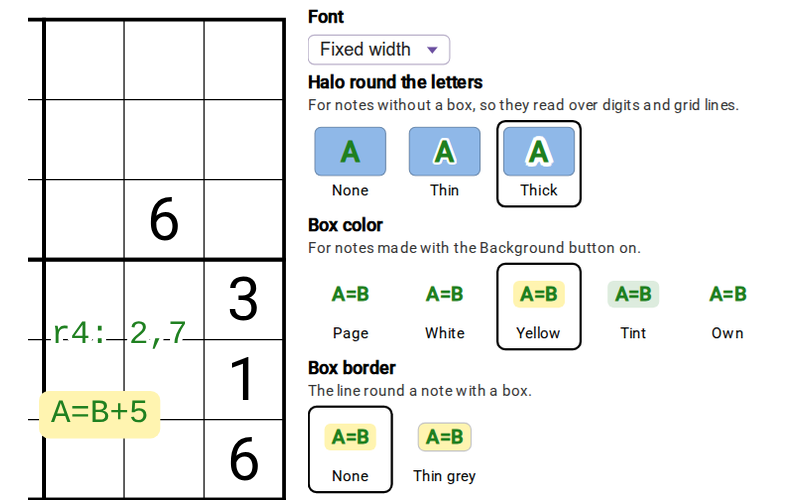
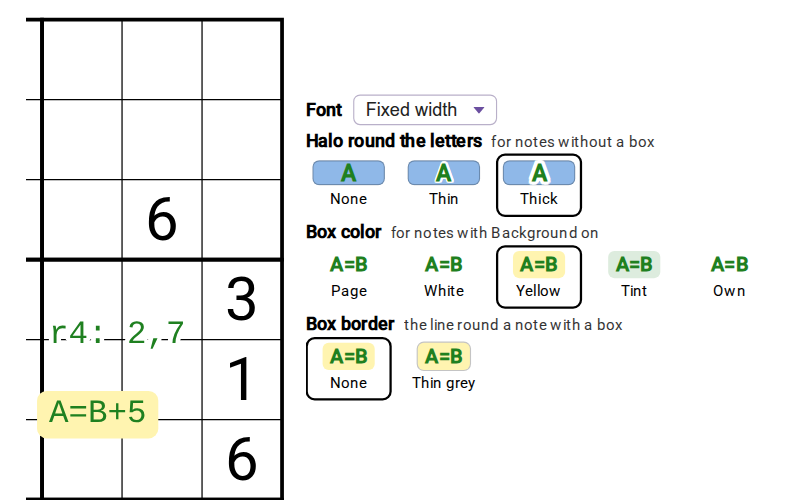
Text Anywhere: dialog fits 1280x720, Delete all N notes confirm, live selection outline
Closes #961

diff --git a/text-anywhere.user.js b/text-anywhere.user.js
@@ -1,7 +1,7 @@
 // ==UserScript==
 // @name         SudokuPad Text Anywhere
 // @namespace    https://github.com/caneff/sudokupad-scripts
-// @version      0.46.27
+// @version      0.46.28
 // @author       ChinStrap
 // @description  Adds a Text Anywhere tool for typed notes on the board or beside it, such as cage sums, in colors of its own. Each puzzle keeps its own notes.
 // @match        https://sudokupad.app/*
@@ -17,7 +17,7 @@
 (function () {
   'use strict'
 
-  const VERSION = '0.46.27'
+  const VERSION = '0.46.28'
   const TOOL_NAME = 'textanywhere'
   const LAYER_ID = 'text-anywhere-layer'
   const DIALOG_BLUR_PX = 8
@@ -253,7 +253,8 @@
   const CLASS_PREFIX = 'text-anywhere-'
   const COLORS_STYLE_ID = 'text-anywhere-colors'
   const PANEL_STYLE_ID = 'text-anywhere-style'
-  const CLEAR_QUESTION = 'Clear all notes?'
+  const DELETE_ALL_LABEL = 'Delete all'
+  const clearQuestion = (count) => `${count === 1 ? 'Delete the note' : `Delete all ${count} notes`}? This cannot be undone.`
   const OK_LABEL = 'OK'
   const NOTES_PREFIX = KEY_PREFIX + 'notes_'
   const OLD_NOTES_PREFIX = OLD_KEY_PREFIX + 'drawing_'
@@ -643,16 +644,16 @@
   function renderSamplePicks ({ outline, box, custom, frame, textColor }) {
     const pickButton = (role, value, label, pressed, sample) =>
       `<button type="button" class="${CLASS_PREFIX}pick" data-role="${role}" data-value="${value}" aria-label="${escapeHtml(label)}" aria-pressed="${pressed}">${sample}<span class="${CLASS_PREFIX}pick-label">${escapeHtml(label)}</span></button>`
-    const row = (title, note, buttons, after = '') => `<div class="${CLASS_PREFIX}section-title">${title}</div><div class="${CLASS_PREFIX}pick-note">${note}</div><div class="${CLASS_PREFIX}pick-row">${buttons.join('')}</div>${after}`
-    const halo = (name) => `<span class="${CLASS_PREFIX}sample" data-cell style="background:${HALO_CELL_COLOR};color:${escapeHtml(textColor)};font-size:26px;text-shadow:${escapeHtml(haloShadow(name, PAGE_COLOR))}">A</span>`
+    const row = (title, note, buttons, after = '') => `<div class="${CLASS_PREFIX}section-title">${title}<span class="${CLASS_PREFIX}pick-note">${note}</span></div><div class="${CLASS_PREFIX}pick-row">${buttons.join('')}</div>${after}`
+    const halo = (name) => `<span class="${CLASS_PREFIX}sample" data-cell style="background:${HALO_CELL_COLOR};color:${escapeHtml(textColor)};font-size:20px;text-shadow:${escapeHtml(haloShadow(name, PAGE_COLOR))}">A</span>`
     const boxed = (fill, framed) => `<span class="${CLASS_PREFIX}sample" style="color:${escapeHtml(textColor)};font-size:18px"><span style="${SAMPLE_BOX_STYLE};background:${escapeHtml(fill)};box-shadow:${frameShadow(framed)}">A=B</span></span>`
     const choice = boxChoice(box)
     const fillFor = (id) => id === BOX_CUSTOM ? custom : boxFill(id, textColor)
-    return row('Halo round the letters', 'For notes without a box, so they read over digits and grid lines.', OUTLINES.map((name) => pickButton('outline-pick', name, OUTLINE_LABELS[name], outline === name, halo(name)))) +
-      row('Box color', 'For notes made with the Background button on.',
+    return row('Halo round the letters', 'for notes without a box', OUTLINES.map((name) => pickButton('outline-pick', name, OUTLINE_LABELS[name], outline === name, halo(name)))) +
+      row('Box color', 'for notes with Background on',
         [...Object.keys(BOX_PRESETS), BOX_CUSTOM].map((id) => pickButton('box-pick', id, BOX_PRESETS[id] ?? BOX_CUSTOM_LABEL, choice === id, boxed(fillFor(id), frame))),
         choice === BOX_CUSTOM ? `<input type="color" class="${CLASS_PREFIX}swatch" data-role="box-custom" value="${escapeHtml(custom)}" aria-label="Own box color" title="Own box color">` : '') +
-      row('Box border', 'The line round a note with a box.',
+      row('Box border', 'the line round a note with a box',
         FRAME_CHOICES.map(([value, label]) => pickButton('frame-pick', value, label, frame === (value === 'on'), boxed(fillFor(choice), value === 'on'))))
   }
   // Board units, as a text's height.
@@ -2626,12 +2627,14 @@
   const DIALOG_ID = 'text-anywhere-dialog'
   const DIALOG_STYLE_ID = 'text-anywhere-dialog-style'
   const DIALOG_CSS = [
-    `#${DIALOG_ID} .${CLASS_PREFIX}section-title { font-weight: 600; margin: 6px 0 0; }`,
-    `#${DIALOG_ID} .${CLASS_PREFIX}pick-note { margin: 2px 0 0; font-size: 0.85em; opacity: 0.8; }`,
-    `#${DIALOG_ID} .${CLASS_PREFIX}pick-row { display: flex; flex-wrap: wrap; gap: 8px; margin: 6px 0; }`,
+    `#${DIALOG_ID} .${CLASS_PREFIX}section-title { font-weight: 600; margin: 4px 0 0; }`,
+    `#${DIALOG_ID} .${CLASS_PREFIX}pick-note { display: inline; margin: 0 0 0 8px; font-weight: 400; font-size: 0.85em; opacity: 0.8; }`,
+    `#${DIALOG_ID} .${CLASS_PREFIX}font-row { display: flex; align-items: center; gap: 10px; margin: 6px 0 0; }`,
+    `#${DIALOG_ID} .${CLASS_PREFIX}font-row .${CLASS_PREFIX}section-title { margin: 0; }`,
+    `#${DIALOG_ID} .${CLASS_PREFIX}pick-row { display: flex; flex-wrap: wrap; gap: 8px; margin: 2px 0; }`,
     `#${DIALOG_ID} .${CLASS_PREFIX}pick { box-sizing: border-box; display: flex; flex-direction: column; align-items: center; gap: 4px; width: auto; height: auto; min-width: 0; margin: 0; padding: 4px 4px 6px; line-height: 1.2; border: 2px solid transparent; border-radius: 8px; background: none; color: inherit; font: inherit; cursor: pointer; }`,
     `#${DIALOG_ID} .${CLASS_PREFIX}pick[aria-pressed="true"] { border-color: #000; }`,
-    `#${DIALOG_ID} .${CLASS_PREFIX}sample { box-sizing: border-box; display: flex; align-items: center; justify-content: center; width: 64px; height: 44px; border-radius: 6px; font-weight: 600; line-height: 1; }`,
+    `#${DIALOG_ID} .${CLASS_PREFIX}sample { box-sizing: border-box; display: flex; align-items: center; justify-content: center; width: 64px; height: 22px; border-radius: 6px; font-weight: 600; line-height: 1; }`,
     `#${DIALOG_ID} .${CLASS_PREFIX}sample[data-cell] { border: 1px solid rgb(0 0 0 / .25); }`,
     `#${DIALOG_ID} .${CLASS_PREFIX}pick-label { font-size: 0.85em; }`,
     `#${DIALOG_ID} input.${CLASS_PREFIX}swatch[data-role="box-custom"] { display: block; margin: 0 0 6px; }`,
@@ -2639,7 +2642,8 @@
     // The pulldowns are as wide as their longest option, not as the dialog's column (after colorBlockCss, whose rule they override).
     `#${DIALOG_ID} .${CLASS_PREFIX}color-choice { width: auto; min-width: 0; }`,
     // The block is as wide as its pulldown, so the swatch grid, which takes the block's width, ends where the pulldown does.
-    `#${DIALOG_ID} .${CLASS_PREFIX}color-block { justify-content: start; }`
+    `#${DIALOG_ID} .${CLASS_PREFIX}color-block { justify-content: start; gap: 4px; margin: 4px 0; }`,
+    `#${DIALOG_ID} .${CLASS_PREFIX}font-row .${CLASS_PREFIX}color-block { margin: 0; }`
   ].join('\n')
 
   // A pasted value is saved and shown at once, whether or not Text Anywhere is current.
@@ -2714,7 +2718,7 @@
         renderColorBlock({ prefix: CLASS_PREFIX, label: 'Text color preset', options, swatches: COLOR_NUMBERS.map((n) => ({ key: String(n), value: draft.colors[n], label: `Text color ${n}` })) }) +
         (paletteNote ? `<div data-role="palette-note">${paletteNote}.</div>` : '') +
         (draft.missing.length ? `<div data-role="missing-note">${missingColorsText(draft.missing, draft.fromPreset)}</div>` : '') +
-        `<div class="${CLASS_PREFIX}section-title">Font</div>${renderFontChoice(draftLooks.noteFont)}` +
+        `<div class="${CLASS_PREFIX}font-row"><span class="${CLASS_PREFIX}section-title">Font</span>${renderFontChoice(draftLooks.noteFont)}</div>` +
         renderSamplePicks({ outline: draftLooks.outline, box: draftLooks.boxColor, custom: draftCustom, frame: draftLooks.frame, textColor: draft.colors[color] })
     }
     draw()
@@ -2891,6 +2895,8 @@
   let puzzleNotes = []
   let keptEntries = []
   let selected = []
+  // The notes a selection rectangle being dragged touches, outlined as the selection is until the release decides.
+  let previewed = []
   // False while this puzzle's saved notes cannot be read: no save writes over them but an explicit wipe's.
   let savable = true
   const reported = new Set()
@@ -3095,7 +3101,7 @@
   }
 
   function showSelection (map, offset = [0, 0]) {
-    const outlines = textBox ? [{ box: textBox.box, color: itemColor(textBox.item.color) }] : selected.map((index) => ({ box: noteScreenBox(puzzleNotes[index], map, look.outline) }))
+    const outlines = textBox ? [{ box: textBox.box, color: itemColor(textBox.item.color) }] : [...new Set([...selected, ...previewed])].map((index) => ({ box: noteScreenBox(puzzleNotes[index], map, look.outline) }))
     const layer = notesLayer()
     const shown = [...layer.querySelectorAll(`.${SELECTION_CLASS}`)]
     for (const element of shown.slice(outlines.length)) element.remove()
@@ -3704,6 +3710,10 @@
     clearTimeout(d.settle)
     between()
     d.rectangle?.remove()
+    if (previewed.length) {
+      previewed = []
+      showSelection(boardMap())
+    }
   }
 
   function endDrag (click = () => {}) {
@@ -3755,6 +3765,8 @@
     return { left: Math.min(ax, bx), top: Math.min(ay, by), width: Math.abs(bx - ax), height: Math.abs(by - ay) }
   }
 
+  const notesInRectangle = (d, map) => notesHidden ? [] : notesTouched(notesOnBoard(map), map.toBoard(d.points[0]), map.toBoard(d.points[d.points.length - 1]))
+
   function showRectangle (d) {
     if (!d.rectangle) {
       d.rectangle = document.createElement('div')
@@ -3763,11 +3775,14 @@
     }
     const box = rectangleBox(d)
     placeOver(d.rectangle, { left: box.left, top: box.top, right: box.left + box.width, bottom: box.top + box.height })
+    const map = boardMap()
+    previewed = notesInRectangle(d, map)
+    showSelection(map)
   }
 
   function selectInRectangle (d, click) {
     const map = boardMap()
-    const touched = notesHidden ? [] : notesTouched(notesOnBoard(map), map.toBoard(d.points[0]), map.toBoard(d.points[d.points.length - 1]))
+    const touched = notesInRectangle(d, map)
     if (touched.length === 0 && isSmallRectangle(d.points)) return click(d)
     select(d.shift ? [...selected, ...touched] : touched)
   }
@@ -4120,10 +4135,10 @@
   function confirmClear () {
     textTool.run(() => Framework.showDialog({
       parts: [
-        { tag: 'text', content: CLEAR_QUESTION },
-        { tag: 'options', options: [{ tag: 'button', content: OK_LABEL }, { tag: 'button', content: CANCEL_LABEL }] }
+        { tag: 'text', content: clearQuestion(puzzleNotes.filter((item) => item.kind === TEXT_KIND).length) },
+        { tag: 'options', options: [{ tag: 'button', content: DELETE_ALL_LABEL }, { tag: 'button', content: CANCEL_LABEL }] }
       ],
-      onButton: under(textTool, (label) => { if (label === OK_LABEL) clearAll() }),
+      onButton: under(textTool, (label) => { if (label === DELETE_ALL_LABEL) clearAll() }),
       centerOverBoard: true
     }))
   }

diff --git a/site/index.html b/site/index.html
@@ -116,7 +116,7 @@
           <source media="(prefers-reduced-motion: no-preference)" srcset="https://raw.githubusercontent.com/caneff/sudokupad-scripts/main/docs/research/text-anywhere/text-anywhere-slide-8-erase.webp?v=e592707">
           <img class="slide" src="https://raw.githubusercontent.com/caneff/sudokupad-scripts/main/docs/research/text-anywhere/text-anywhere-slide-8-erase.png?v=88076f3" alt="A red ring on a green note above the grid reading A=B+5, where a right click lands, then the board with the note gone" width="800" height="500">
         </picture>
-        <img class="slide" src="https://raw.githubusercontent.com/caneff/sudokupad-scripts/main/docs/research/text-anywhere/text-anywhere-slide-9-settings.png?v=0c78a0f" alt="Two green notes on the board in a fixed-width font, r4: 2,7 with a thick white halo over a grid line and A=B+5 in a yellow box, beside the settings dialog's Font, Halo, Box color and Box border rows with Fixed width, Thick and Yellow picked" width="800" height="500">
+        <img class="slide" src="https://raw.githubusercontent.com/caneff/sudokupad-scripts/main/docs/research/text-anywhere/text-anywhere-slide-9-settings.png?v=4d30098" alt="Two green notes on the board in a fixed-width font, r4: 2,7 with a thick white halo over a grid line and A=B+5 in a yellow box, beside the settings dialog's Font, Halo, Box color and Box border rows with Fixed width, Thick and Yellow picked" width="800" height="500">
       </div>
       <div class="slide-bar">
         <div class="slide-captions">

diff --git a/site/text-anywhere.html b/site/text-anywhere.html
@@ -36,7 +36,7 @@
         <source media="(prefers-reduced-motion: no-preference)" srcset="https://raw.githubusercontent.com/caneff/sudokupad-scripts/main/docs/research/text-anywhere/text-anywhere-slide-8-erase.webp?v=e592707">
         <img class="slide" src="https://raw.githubusercontent.com/caneff/sudokupad-scripts/main/docs/research/text-anywhere/text-anywhere-slide-8-erase.png?v=88076f3" alt="A red ring on a green note above the grid reading A=B+5, where a right click lands, then the board with the note gone" width="800" height="500">
       </picture>
-      <img class="slide" src="https://raw.githubusercontent.com/caneff/sudokupad-scripts/main/docs/research/text-anywhere/text-anywhere-slide-9-settings.png?v=0c78a0f" alt="Two green notes on the board in a fixed-width font, r4: 2,7 with a thick white halo over a grid line and A=B+5 in a yellow box, beside the settings dialog's Font, Halo, Box color and Box border rows with Fixed width, Thick and Yellow picked" width="800" height="500">
+      <img class="slide" src="https://raw.githubusercontent.com/caneff/sudokupad-scripts/main/docs/research/text-anywhere/text-anywhere-slide-9-settings.png?v=4d30098" alt="Two green notes on the board in a fixed-width font, r4: 2,7 with a thick white halo over a grid line and A=B+5 in a yellow box, beside the settings dialog's Font, Halo, Box color and Box border rows with Fixed width, Thick and Yellow picked" width="800" height="500">
     </div>
     <div class="slide-bar">
       <div class="slide-captions">

diff --git a/test/text-anywhere.test.js b/test/text-anywhere.test.js
@@ -1359,9 +1359,9 @@ test('the Own color input shows under the row only while Own is picked', () => {
 
 test('each of the three sample rows has its sub-line', () => {
   const html = samples()
-  contains(html, 'For notes without a box, so they read over digits and grid lines.')
-  contains(html, 'For notes made with the Background button on.')
-  contains(html, 'The line round a note with a box.')
+  contains(html, 'for notes without a box')
+  contains(html, 'for notes with Background on')
+  contains(html, 'the line round a note with a box')
 })
 
 // Ten column lines 64 px apart from 100: the board's span is 100..676, middles at 132, 196 ... 644.
